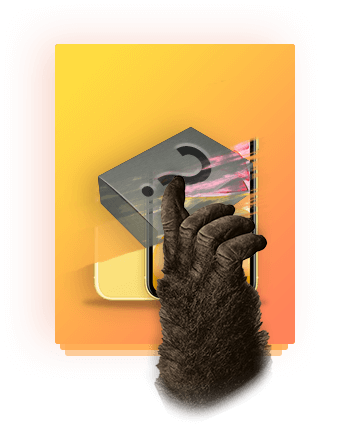
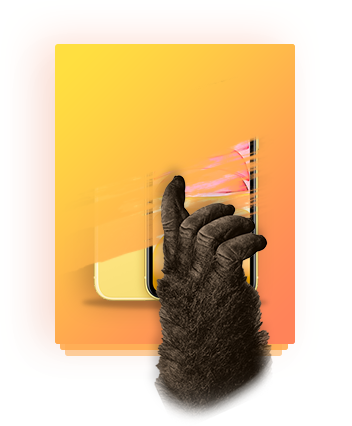
add fixes

Changed region(s): [[0.25, 0.0915, 0.8438, 0.946], [0.25, 0.6103, 0.3125, 0.7019]]

diff --git a/app/js/common.js b/app/js/common.js
@@ -148,7 +148,7 @@ var swip = {
 
         setTimeout(function() {
             _t.stopShuffle();
-        }, 1500)
+        }, 3000)
     },
 
     coloringCards: function(palette) {
@@ -202,23 +202,20 @@ var swip = {
                 currentEraser.addClass('active');
             index === _t.currentCardIndex && configs.currentAttempt >= configs.winnerAttempt ?
                 currentEraser.addClass('eraser--phone') :
-                currentEraser.removeClass('eraser--phone')
+                currentEraser.removeClass('eraser--phone');
         });
     },
     results: function() {
         var _t = this,
             configs = _t.config;
 
-        _t.clear();
-
         configs.currentAttempt >= configs.winnerAttempt ? _t.won() : _t.loose();
 
         configs.currentAttempt++;
     },
-    clear: function() {
+    reBuild: function() {
         var _t = this;
 
-        $('.eraser__layer').remove();
         _t.erasers.each(function(index, el) {
             var el = $(el);
             el.removeClass('active').append('<img src="img/fake-img.png" class="eraser__layer" />');
@@ -232,7 +229,22 @@ var swip = {
     loose: function() {
         var _t = this;
 
-        _t.openPopup('#popupLoose');
+        _t.showRealPlace()
+    },
+    showRealPlace: function() {
+        var _t = this;
+        var randIndex = 0;
+        do {
+            randIndex = Util.randomInteger(0, _t.erasers.length - 1);
+        } while (randIndex === _t.currentCardIndex)
+
+        _t.erasers.eq(randIndex).addClass('eraser--phone');
+        _t.erasers.addClass('active');
+        $('.eraser__layer').remove();
+         setTimeout(function() {
+            _t.reBuild();
+            _t.openPopup('#popupLoose');
+        }, 1700)
     },
     openPopup: function(query) {
         var _t = this;

diff --git a/app/css/style.css b/app/css/style.css
@@ -277,11 +277,11 @@ select {
 .eraser {
   position: relative;
   z-index: 1;
-  -webkit-transition: opacity .2s .4s ease-in-out, -webkit-transform .5s linear;
-  transition: opacity .2s .4s ease-in-out, -webkit-transform .5s linear;
-  -o-transition: transform .5s linear, opacity .2s .4s ease-in-out;
-  transition: transform .5s linear, opacity .2s .4s ease-in-out;
-  transition: transform .5s linear, opacity .2s .4s ease-in-out, -webkit-transform .5s linear;
+  -webkit-transition: opacity .5s .8s ease-in-out, -webkit-transform 1s linear;
+  transition: opacity .5s .8s ease-in-out, -webkit-transform 1s linear;
+  -o-transition: transform 1s linear, opacity .5s .8s ease-in-out;
+  transition: transform 1s linear, opacity .5s .8s ease-in-out;
+  transition: transform 1s linear, opacity .5s .8s ease-in-out, -webkit-transform 1s linear;
 }
 
 .eraser.active {
@@ -497,6 +497,7 @@ select {
 .popup__pic {
   margin: 0 auto 20px;
   display: block;
+  max-width: 75%;
 }
 
 .popup__title {
@@ -608,6 +609,9 @@ select {
   }
   .popup__wrapper {
     padding: 90px 15px;
+  }
+  .popup__pic {
+    max-width: none;
   }
   .stack {
     cursor: default;

diff --git a/app/index.html b/app/index.html
@@ -178,7 +178,7 @@
           <tr>
             <td class="popup__wrapper">
               <div class="popup__panel">
-                <h2 class="popup__title">Следи внимательнее!</h2>
+                <h2 class="popup__title">Следи внимательнее!</h2><img class="popup__pic" src="img/loose.png" alt="">
                 <p class="popup__text">У тебя еще 2 попытки</p>
                 <button class="popup__btn btn js-restart"><span class="btn__sign">Продолжить</span><span class="btn__icon"></span></button>
               </div>

diff --git a/sass/style.sass b/sass/style.sass
@@ -207,7 +207,7 @@ select
 .eraser
 	position: relative
 	z-index: 1
-	transition: transform .5s linear, opacity .2s .4s ease-in-out
+	transition: transform 1s linear, opacity .5s .8s ease-in-out
 	&.active
 		transition: none
 		opacity: 1 !important
@@ -353,6 +353,7 @@ select
 	&__pic
 		margin: 0 auto 20px
 		display: block
+		max-width: 75%
 	&__title
 		margin: 0 0 20px
 		text-align: center

diff --git a/sass/_media.sass b/sass/_media.sass
@@ -32,6 +32,8 @@
 			right: -35px
 		&__wrapper
 			padding: 90px 15px
+		&__pic
+			max-width: none
 
 	.stack
 		cursor: default
